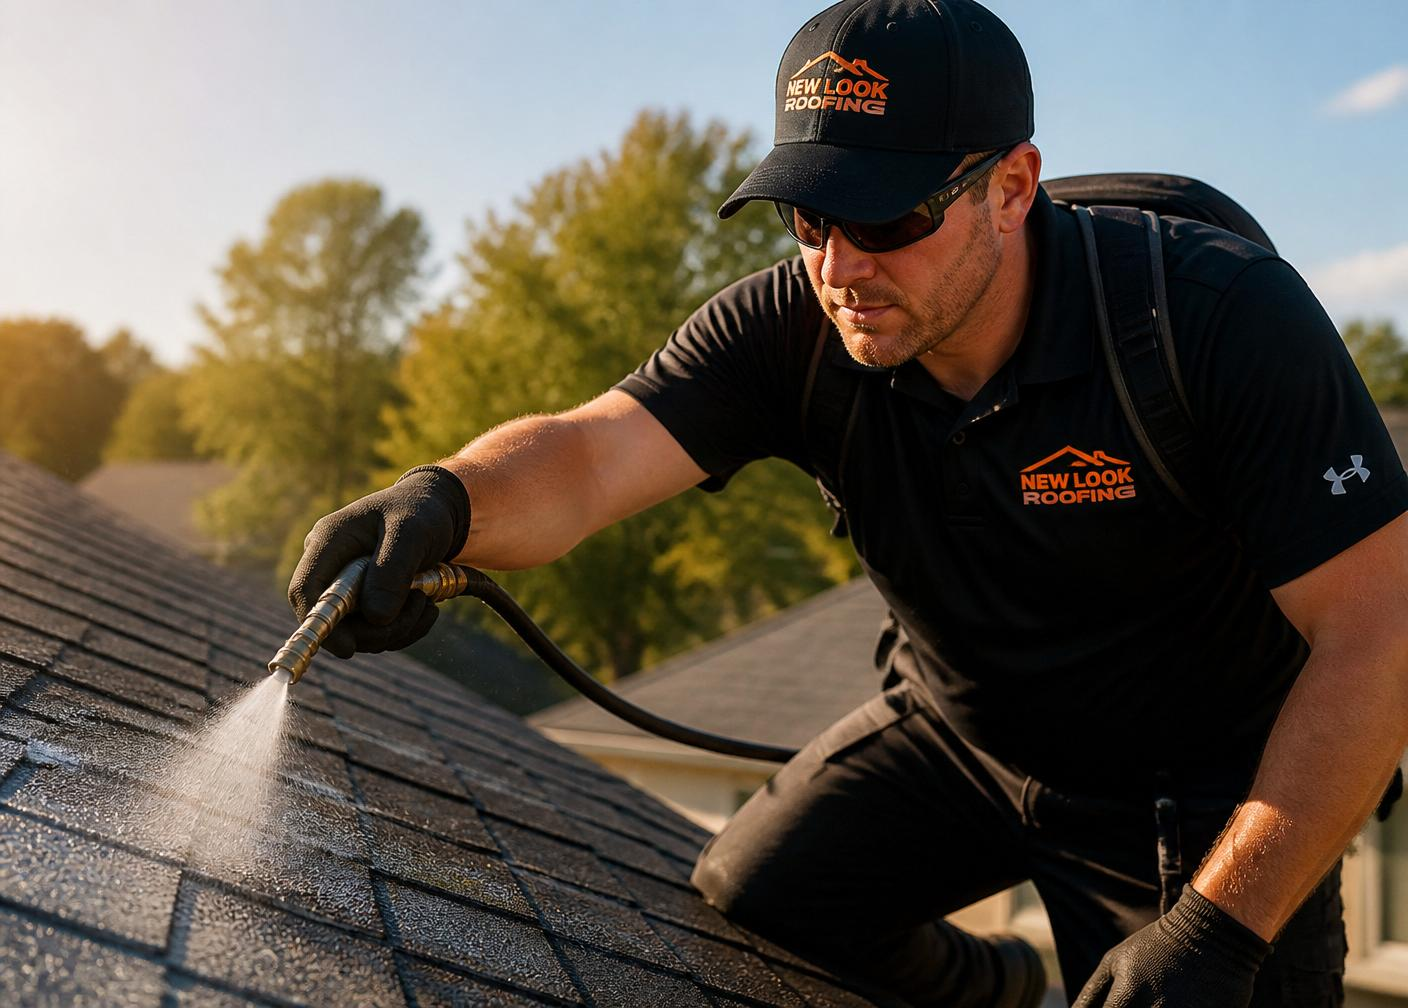
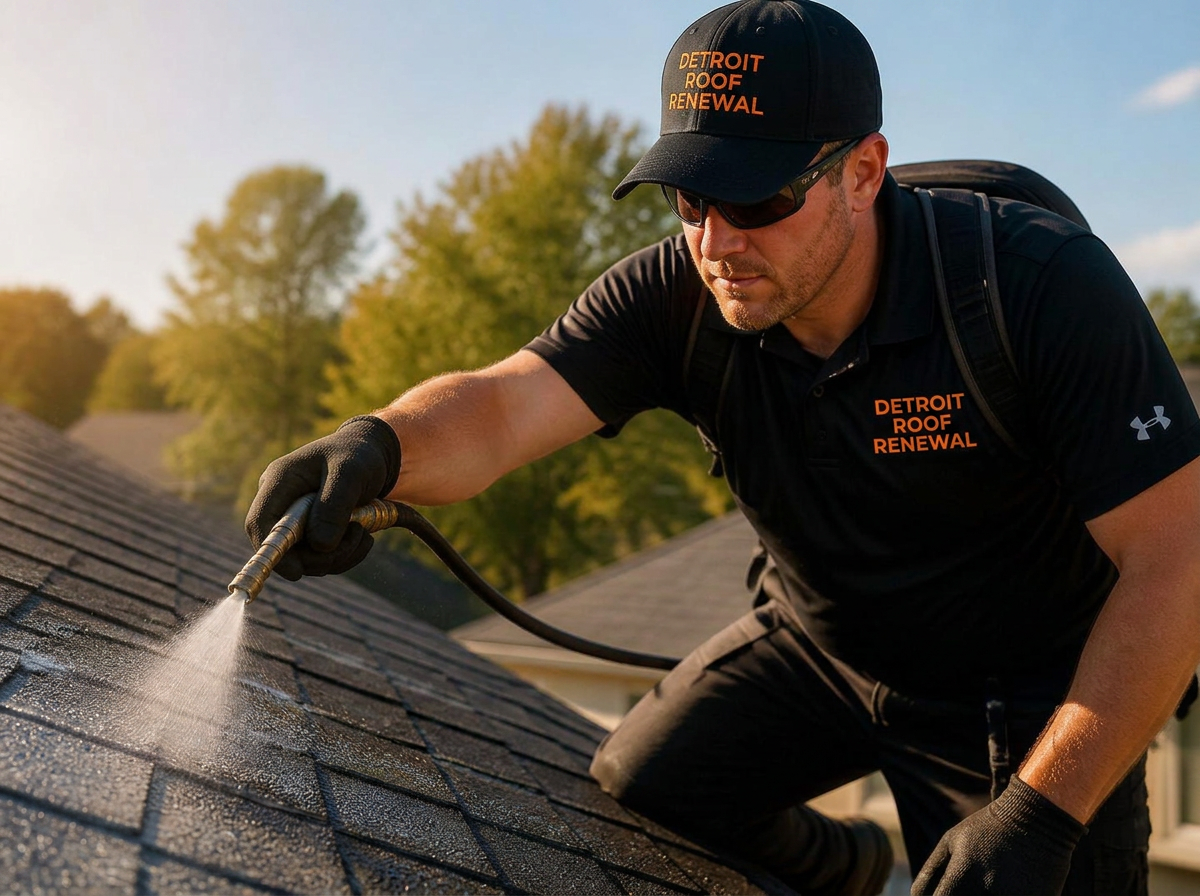
Changes

diff --git a/src/routes/index.tsx b/src/routes/index.tsx
@@ -15,7 +15,7 @@ function Logo() {
         <path d="M8 16 V26 H24 V16" stroke="currentColor" strokeWidth="2.5" strokeLinecap="round" strokeLinejoin="round"/>
         <circle cx="16" cy="21" r="2" fill="var(--ember)" />
       </svg>
-      <span className="font-display text-lg font-semibold tracking-tight">Midwest Roof Renewal</span>
+      <span className="font-display text-lg font-semibold tracking-tight">Detroit Roof Renewal</span>
     </div>
   );
 }
@@ -364,7 +364,7 @@ function Footer() {
           <div className="text-xs uppercase tracking-widest text-white/50">Contact</div>
           <ul className="mt-4 space-y-2 text-sm text-white/80">
             <li>(800) 555-0142</li>
-            <li>hello@midwestroofrenewal.com</li>
+            <li>hello@detroitroofrenewal.com</li>
             <li>Mon–Sat · 7am–7pm</li>
           </ul>
         </div>
@@ -378,7 +378,7 @@ function Footer() {
       </div>
       <div className="border-t border-white/10">
         <div className="mx-auto max-w-7xl px-6 py-6 flex justify-between text-xs text-white/50">
-          <span>© {new Date().getFullYear()} Midwest Roof Renewal</span>
+          <span>© {new Date().getFullYear()} Detroit Roof Renewal</span>
           <span>Built to outlast the weather.</span>
         </div>
       </div>

diff --git a/src/routes/__root.tsx b/src/routes/__root.tsx
@@ -77,14 +77,14 @@ export const Route = createRootRouteWithContext<{ queryClient: QueryClient }>()(
     meta: [
       { charSet: "utf-8" },
       { name: "viewport", content: "width=device-width, initial-scale=1" },
-      { title: "Midwest Roof Renewal — Add 15 Years to Your Shingles" },
+      { title: "Detroit Roof Renewal — Add 15 Years to Your Shingles" },
       {
         name: "description",
         content:
           "Professional asphalt shingle rejuvenation spray. Restore flexibility, prevent granule loss, and extend your roof's life for a fraction of replacement cost.",
       },
-      { name: "author", content: "Midwest Roof Renewal" },
-      { property: "og:title", content: "Midwest Roof Renewal — Add 15 Years to Your Shingles" },
+      { name: "author", content: "Detroit Roof Renewal" },
+      { property: "og:title", content: "Detroit Roof Renewal — Add 15 Years to Your Shingles" },
       {
         property: "og:description",
         content:
